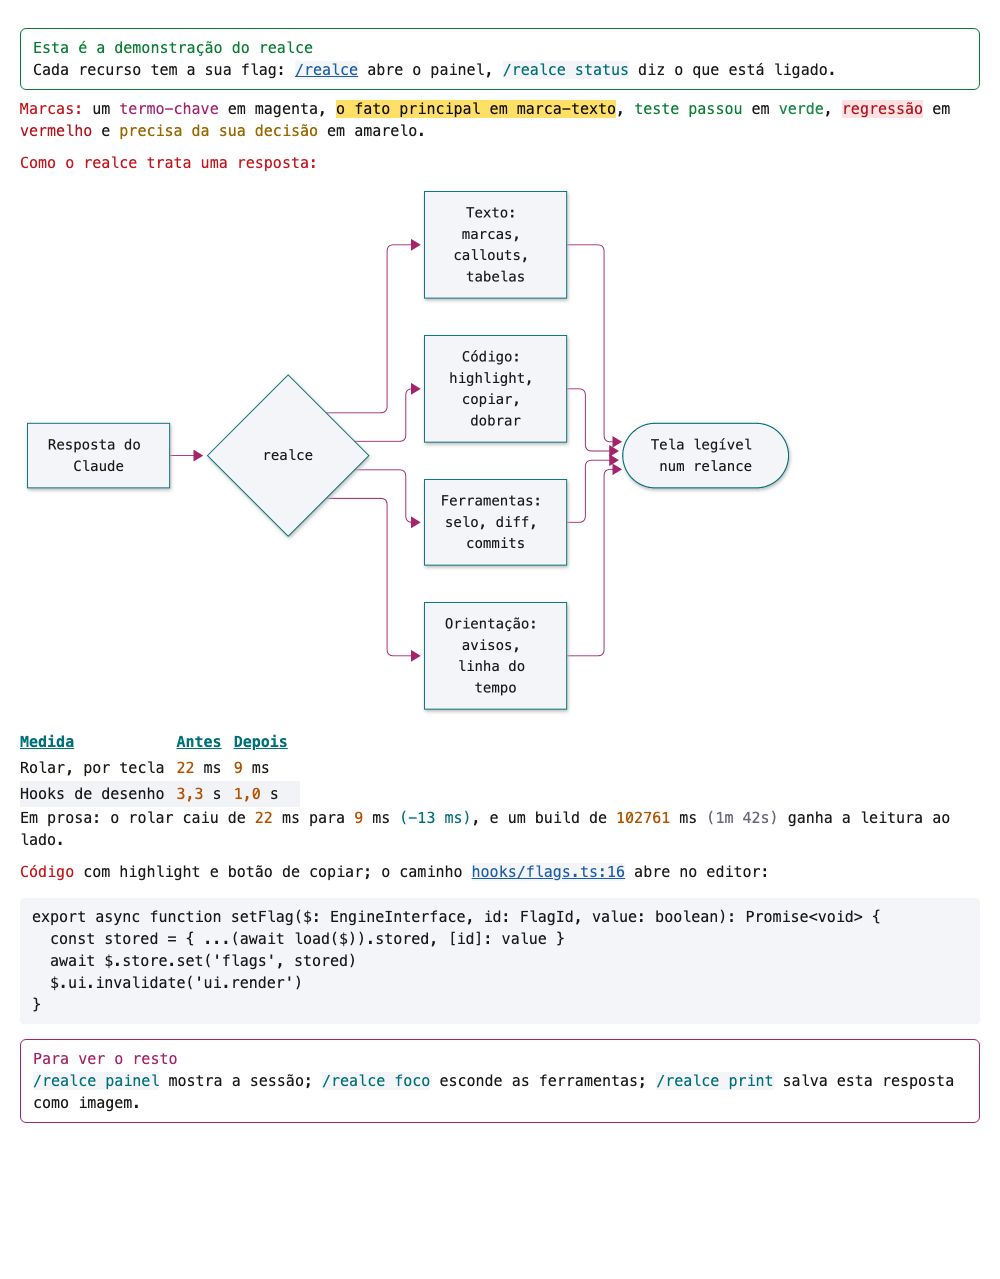
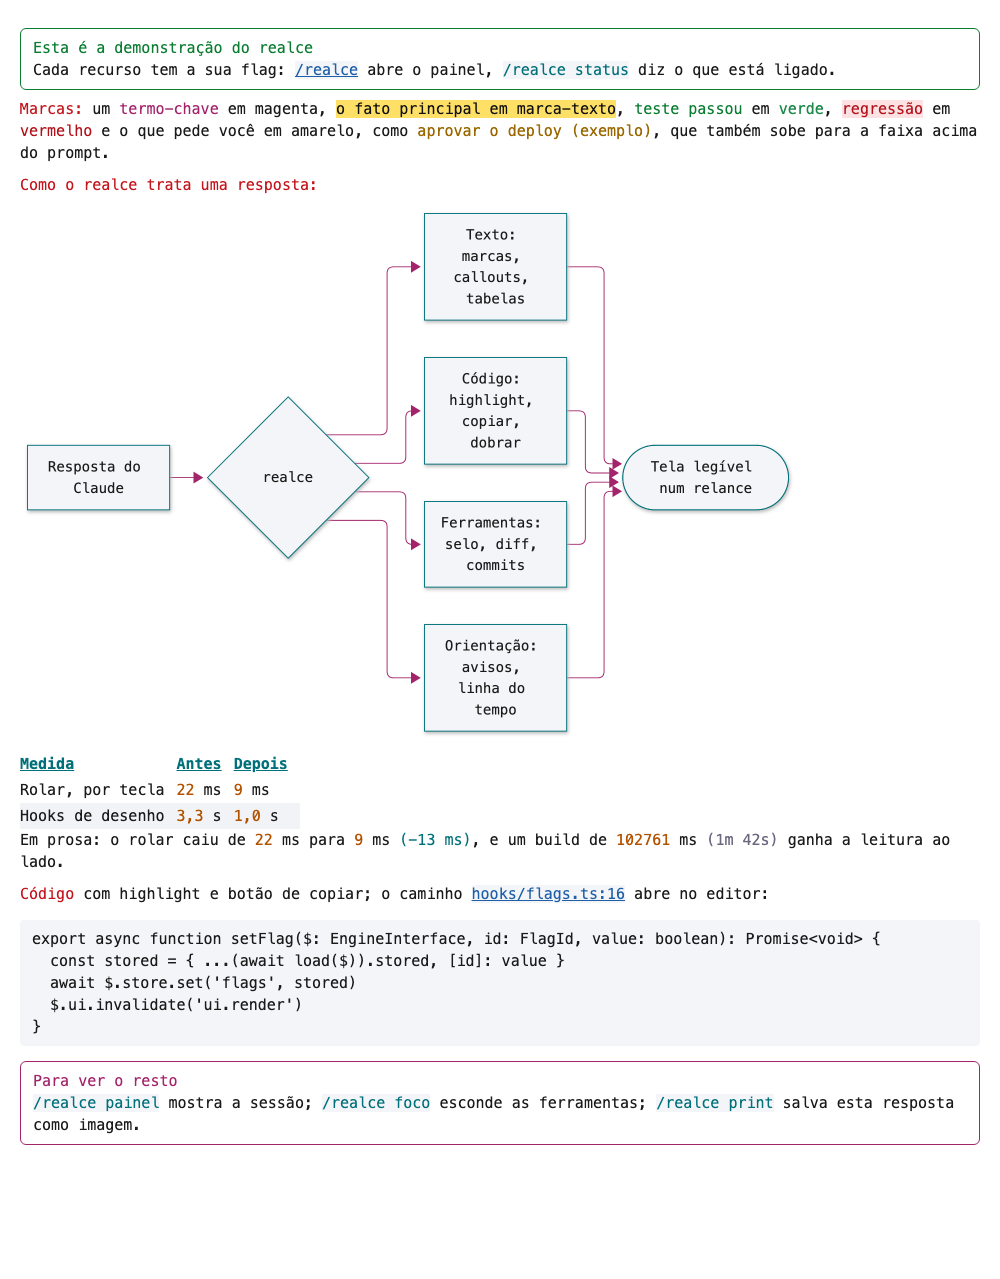
realce 0.4.28: exemplo amarelo da demo se lê como exemplo; imagens do README redesenhadas por script

diff --git a/scripts/demo-images.ts b/scripts/demo-images.ts
@@ -1,0 +1,41 @@
+// Draws the README's demo pictures (images/demo.png, images/demo-claro.png) from DEMO_TEXT, as /realce print does.
+// bun --preload ./scripts/bun-stub.ts scripts/demo-images.ts   (needs mmdc and the Chrome headless mermaid-cli installs)
+import { execFileSync } from 'node:child_process'
+import { mkdtempSync, readdirSync, readFileSync, writeFileSync } from 'node:fs'
+import { homedir, tmpdir } from 'node:os'
+import { join } from 'node:path'
+
+import { PALETTES } from '../hooks/palettes'
+import { DEMO_TEXT } from '../hooks/system/demo'
+import { estimateHeight, replyHtml } from '../hooks/system/printHtml'
+import { parseBlocks } from '../hooks/text/blocks'
+
+function findChrome(): string {
+  const root = join(homedir(), '.cache/puppeteer/chrome-headless-shell')
+  const found = execFileSync('find', [root, '-name', 'chrome-headless-shell', '-type', 'f'], { encoding: 'utf8' }).split('\n')[0]
+  if (!found) throw new Error(`no chrome-headless-shell under ${root}: install mermaid-cli (npm i -g @mermaid-js/mermaid-cli)`)
+  return found
+}
+
+const images = join(import.meta.dir, '../images')
+const work = mkdtempSync(join(tmpdir(), 'realce-demo-'))
+const chrome = findChrome()
+const diagram = parseBlocks(DEMO_TEXT).find(b => b.type === 'code' && b.language === 'mermaid')
+if (diagram?.type !== 'code') throw new Error('DEMO_TEXT has no mermaid block')
+
+for (const [kind, name] of [['dark', 'demo'], ['light', 'demo-claro']] as const) {
+  const set = PALETTES[kind]
+  writeFileSync(join(work, `${kind}.json`), JSON.stringify(set.MERMAID))
+  writeFileSync(join(work, 'diagram.mmd'), diagram.source)
+  const png = join(work, `${kind}-diagram.png`)
+  const background = String(set.MERMAID.themeVariables.background)
+  execFileSync('mmdc', ['-i', join(work, 'diagram.mmd'), '-o', png, '-c', join(work, `${kind}.json`), '-b', background, '-s', '2', '-q'])
+  const header = readFileSync(png)
+  const picture = { file: png, width: header.readUInt32BE(16), height: header.readUInt32BE(20) }
+  const html = join(work, `${name}.html`)
+  writeFileSync(html, replyHtml(DEMO_TEXT, set, source => (source === diagram.source ? picture : null), { enfase: true, deltas: true, numeros: true }))
+  const height = estimateHeight(DEMO_TEXT, [picture], source => source === diagram.source)
+  execFileSync(chrome, ['--headless', '--disable-gpu', '--hide-scrollbars', `--screenshot=${join(images, `${name}.png`)}`, `--window-size=1000,${height}`, `file://${html}`], { stdio: 'ignore' })
+  console.log(`${name}.png: 1000 x ${height}`)
+}
+console.log(readdirSync(images).join(' '))

diff --git a/tests/system.test.tsx b/tests/system.test.tsx
@@ -4,6 +4,7 @@ import type { Engine } from 'claude-code/testing'
 
 import { PALETTES } from '../hooks/palettes'
 import { DEMO_TEXT } from '../hooks/system/demo'
+import { extractPending } from '../hooks/orient/pending'
 import { compareVersions } from '../hooks/system/update'
 import { estimateHeight, fileUrl, replyHtml } from '../hooks/system/printHtml'
 
@@ -188,6 +189,9 @@ describe('/realce demo', () => {
 
   test('the demo shows every aid', () => {
     for (const piece of ['{+', '{-', '{!', '==', '> [!FEITO]', '> [!DICA]', '```mermaid', '```ts', '| ', 'de 22 ms para 9 ms']) expect(DEMO_TEXT).toContain(piece)
+    // What the demo leaves in "Precisa de você" reads as an example, and the reply says where it went.
+    expect(extractPending(DEMO_TEXT)).toEqual(['aprovar o deploy (exemplo)'])
+    expect(DEMO_TEXT).toContain('faixa acima do prompt')
   })
 
   test('a submit that fails disarms the demo and says why', async ($, on) => {

diff --git a/hooks/system/demo.ts b/hooks/system/demo.ts
@@ -7,7 +7,7 @@ export const DEMO_TEXT = [
   '> [!FEITO] Esta é a demonstração do realce',
   '> Cada recurso tem a sua flag: `/realce` abre o painel, `/realce status` diz o que está ligado.',
   '',
-  '**Marcas:** um **termo-chave** em magenta, ==o fato principal em marca-texto==, {+teste passou+} em verde, {-regressão-} em vermelho e {!precisa da sua decisão!} em amarelo.',
+  '**Marcas:** um **termo-chave** em magenta, ==o fato principal em marca-texto==, {+teste passou+} em verde, {-regressão-} em vermelho e o que pede você em amarelo, como {!aprovar o deploy (exemplo)!}, que também sobe para a faixa acima do prompt.',
   '',
   '**Como o realce trata uma resposta:**',
   '',

diff --git a/scripts/bun-stub.ts b/scripts/bun-stub.ts
@@ -1,0 +1,9 @@
+// Lets bun load the mod's modules outside Claude Code: the engine's runtime names become inert stand-ins.
+import { plugin } from 'bun'
+
+plugin({
+  setup(build) {
+    build.module('claude-code', () => ({ exports: { atom: (ref: unknown, initial: unknown) => ({ ref, initial }), read: () => undefined, update: () => undefined }, loader: 'object' }))
+  },
+})
+;(globalThis as Record<string, unknown>).h = () => null

diff --git a/README.md b/README.md
@@ -12,7 +12,7 @@ Plugin (mod) do Claude Code que deixa a tela mais fácil de ler. Cada recurso te
 *Gerada pelo próprio mod: `/realce demo` e depois `/realce print`; os números da tabela são só de exemplo. No tema
 claro: [demo-claro.png](images/demo-claro.png).*
 
-Versão atual: 0.4.27 · novidades no [CHANGELOG](CHANGELOG.md) · repositório:
+Versão atual: 0.4.28 · novidades no [CHANGELOG](CHANGELOG.md) · repositório:
 [Th3-W6rst/claude-realce](https://github.com/Th3-W6rst/claude-realce) (dúvidas e problemas em *Issues*).
 
 ## Requisitos

diff --git a/CHANGELOG.md b/CHANGELOG.md
@@ -2,6 +2,10 @@
 
 Versões de 19 e 20/10/2026. As que só mudaram coisas internas não aparecem.
 
+## 0.4.28
+- `/realce demo`: o exemplo em amarelo se lê como exemplo ("aprovar o deploy (exemplo)") e a resposta diz que ele
+  sobe para a faixa acima do prompt; imagens do README atualizadas.
+
 ## 0.4.27
 - Enquanto os testes rodam, o spinner diz quanto o mesmo comando levou da última vez: "Rodando os testes (última: 6,2s)".
 

diff --git a/CONTRIBUTING.md b/CONTRIBUTING.md
@@ -14,6 +14,8 @@ python3 scripts/flags-table.py --check   # a tabela de flags do README bate com 
 ```
 
 Mudou uma flag? `python3 scripts/flags-table.py` reescreve a tabela do README.
+Mudou o texto da demo? `bun --preload ./scripts/bun-stub.ts scripts/demo-images.ts` redesenha as duas imagens do
+README (precisa do mermaid-cli, que traz o Chrome headless).
 
 ## Regras da API que derrubam o módulo inteiro
 
